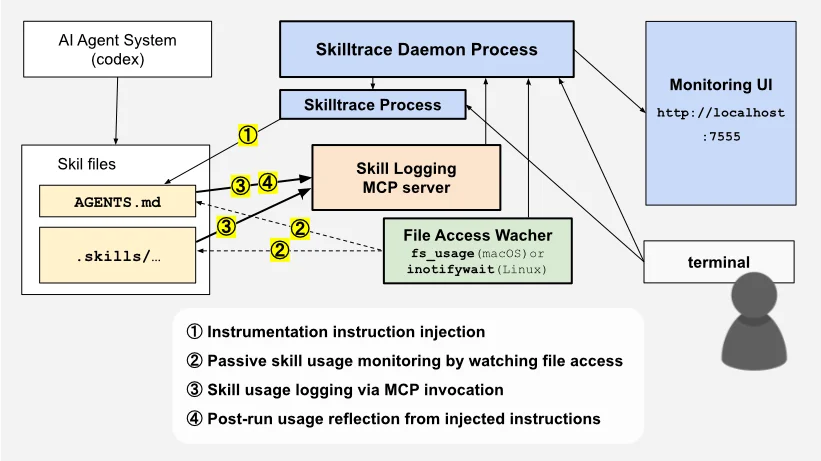
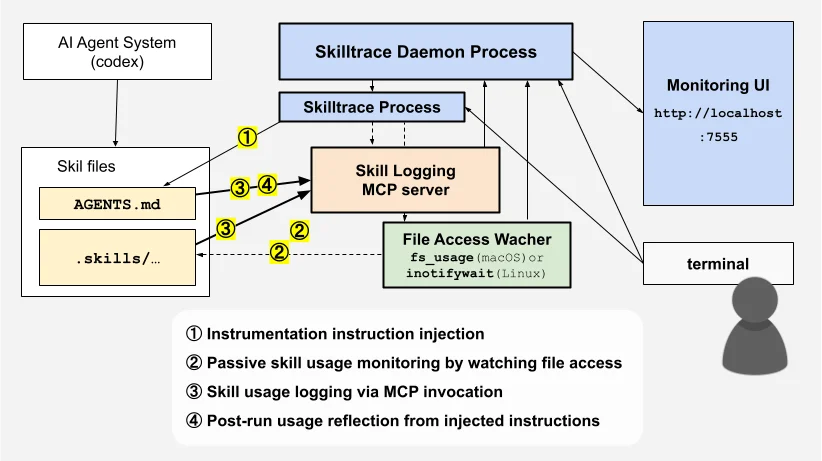
Unify run detail panel headers

diff --git a/app/routes/app/runs.$id.tsx b/app/routes/app/runs.$id.tsx
@@ -145,28 +145,28 @@ function RunReflectionPanel({ reflection }: RunReflectionPanelProps) {
 
   return (
     <section className="flex min-h-0 flex-1 flex-col rounded-box border border-base-300 bg-base-100 p-5 shadow-sm">
-      <div className="mb-4 flex flex-col gap-2 sm:flex-row sm:items-end sm:justify-between">
-        <div>
-          <h2 className="section-title">Run reflection</h2>
-          <p className="text-sm text-base-content/60">
-            Declared post-run diagnostic summary
-          </p>
-        </div>
+      <div className="mb-2 flex flex-col gap-2 sm:flex-col sm:items-start sm:justify-between">
+        <SectionSummaryHeader
+          summary="Post-run self-report"
+          title="Run reflection"
+        />
         {reflection ? (
-          <div className="join gap-2">
-            {reflectionModes.map((option) => (
-              <button
-                aria-pressed={mode === option}
-                className={`btn join-item btn-xs ${
-                  mode === option ? 'btn-primary' : 'btn-outline'
-                }`}
-                key={option}
-                onClick={() => setMode(option)}
-                type="button"
-              >
-                {capitalize(option)}
-              </button>
-            ))}
+          <div className=" flex w-full flex-col items-end">
+            <div className="join gap-2">
+              {reflectionModes.map((option) => (
+                <button
+                  aria-pressed={mode === option}
+                  className={`btn join-item btn-xs ${
+                    mode === option ? 'btn-primary' : 'btn-outline'
+                  }`}
+                  key={option}
+                  onClick={() => setMode(option)}
+                  type="button"
+                >
+                  {capitalize(option)}
+                </button>
+              ))}
+            </div>
           </div>
         ) : null}
       </div>
@@ -175,7 +175,7 @@ function RunReflectionPanel({ reflection }: RunReflectionPanelProps) {
         mode === 'pretty' ? (
           <ReflectionPretty value={reflection} />
         ) : (
-          <div className="min-h-0 flex-1">
+          <div className="min-h-0 w-full flex-1 items-end">
             <JsonBlock className="h-full max-h-none" flush value={reflection} />
           </div>
         )
@@ -301,14 +301,11 @@ function RunContextPanel({ context, environment }: RunContextPanelProps) {
 
   return (
     <section className="rounded-box border border-base-300 bg-base-100 p-5 shadow-sm">
-      <div className="mb-4 flex flex-col gap-2 sm:flex-row sm:items-end sm:justify-between">
-        <div>
-          <h2 className="section-title">Run context</h2>
-          <p className="text-sm text-base-content/60">
-            Agent-declared and SkillTrace-collected metadata
-          </p>
-        </div>
-      </div>
+      <SectionSummaryHeader
+        className="mb-4"
+        summary="Agent-declared and SkillTrace-collected metadata"
+        title="Run context"
+      />
 
       {hasContext || hasEnvironment ? (
         <div className="space-y-4">
@@ -320,12 +317,13 @@ function RunContextPanel({ context, environment }: RunContextPanelProps) {
             <AnimatedDisclosure
               childrenClassName="pt-3"
               className="border-t border-base-300 pt-4"
-              header={(
+              header={
                 <CompactDisclosureHeader
+                  subsection
                   summary={executionEnvironmentSummary(environment)}
                   title="SkillTrace environment"
                 />
-              )}
+              }
               headerClassName="flex w-full cursor-pointer items-center justify-between gap-4 text-left"
             >
               <ContextRows rows={environmentRows} />
@@ -497,14 +495,19 @@ function CompactDetailsPanel({
 }
 
 function CompactDisclosureHeader({
+  subsection = false,
   summary,
   title,
 }: CompactDisclosureHeaderProps) {
+  let titleClassName = subsection
+    ? 'truncate font-semibold text-base-content/70'
+    : 'section-title shrink-0'
+
   return (
     <>
-      <div className="grid min-w-0 flex-1 gap-x-5 gap-y-1 sm:grid-cols-[13rem_minmax(0,1fr)] sm:items-baseline">
-        <h2 className="section-title truncate">{title}</h2>
-        <p className="truncate font-mono text-xs text-base-content/60">
+      <div className="flex min-w-0 flex-1 flex-wrap items-baseline gap-x-5 gap-y-1">
+        <h2 className={titleClassName}>{title}</h2>
+        <p className="min-w-0 flex-1 truncate font-mono text-xs text-base-content/60">
           {summary}
         </p>
       </div>
@@ -827,14 +830,11 @@ function ConsistencyPanel({ rows, traceMode }: ConsistencyPanelProps) {
 
   return (
     <section className="rounded-box border border-base-300 bg-base-100 p-5 shadow-sm">
-      <div className="mb-4 flex flex-col gap-2 sm:flex-row sm:items-end sm:justify-between">
-        <div>
-          <h2 className="section-title">Consistency</h2>
-          <p className="text-sm text-base-content/60">
-            {rows.length} file{rows.length === 1 ? '' : 's'} · {description}
-          </p>
-        </div>
-      </div>
+      <SectionSummaryHeader
+        className="mb-4"
+        summary={`${rows.length} file${rows.length === 1 ? '' : 's'} · ${description}`}
+        title="Consistency"
+      />
 
       {rows.length > 0 ? (
         <div className="overflow-x-auto">
@@ -901,13 +901,17 @@ function ConsistencyPanel({ rows, traceMode }: ConsistencyPanelProps) {
   )
 }
 
-function PanelHeader({ description, title }: PanelHeaderProps) {
+function SectionSummaryHeader({
+  className = '',
+  summary,
+  title,
+}: SectionSummaryHeaderProps) {
   return (
-    <div className="mb-4 flex flex-col gap-2 sm:flex-row sm:items-end sm:justify-between">
-      <div>
-        <h2 className="section-title">{title}</h2>
-        <p className="text-sm text-base-content/60">{description}</p>
-      </div>
+    <div
+      className={`flex min-w-0 flex-wrap items-baseline gap-x-5 gap-y-1 ${className}`}
+    >
+      <h2 className="section-title shrink-0">{title}</h2>
+      <p className="min-w-0 text-sm text-base-content/60">{summary}</p>
     </div>
   )
 }
@@ -1041,7 +1045,9 @@ function Metric({ label, value }: MetricProps) {
       <p className="text-left text-xs tracking-[0.2em] text-base-content/50 uppercase">
         {label}
       </p>
-      <p className="mt-2 truncate text-right text-1.5xl font-bold">{value}</p>
+      <p className="mt-2 truncate text-right text-1.5xl font-semibold">
+        {value}
+      </p>
     </div>
   )
 }
@@ -1049,15 +1055,11 @@ function Metric({ label, value }: MetricProps) {
 function Timeline({ events }: TimelineProps) {
   return (
     <section className="rounded-box border border-base-300 bg-base-100 p-5 shadow-sm">
-      <div className="mb-5">
-        <div>
-          <h2 className="section-title">Timeline</h2>
-          <p className="text-sm text-base-content/60">
-            {events.length} event
-            {events.length === 1 ? '' : 's'}
-          </p>
-        </div>
-      </div>
+      <SectionSummaryHeader
+        className="mb-5"
+        summary={`${events.length} event${events.length === 1 ? '' : 's'}`}
+        title="Timeline"
+      />
 
       {events.length > 0 ? (
         <ol className="relative space-y-4 before:absolute before:top-2 before:bottom-0 before:left-3 before:w-px before:bg-base-300">
@@ -1115,7 +1117,10 @@ function TimelineItem({ event }: TimelineItemProps) {
                   </div>
                 ) : null}
                 {warning ? (
-                  <span className="badge badge-sm badge-warning" title={warning}>
+                  <span
+                    className="badge badge-sm badge-warning"
+                    title={warning}
+                  >
                     warning
                   </span>
                 ) : null}
@@ -1314,9 +1319,7 @@ function executionEnvironmentRows(
   ].filter((row): row is ContextRow => !!row[1])
 }
 
-function executionEnvironmentSummary(
-  environment?: Record<string, any> | null,
-) {
+function executionEnvironmentSummary(environment?: Record<string, any> | null) {
   if (!environment) return 'not recorded'
 
   let version = environment.skilltrace_version || 'unknown'
@@ -1449,6 +1452,7 @@ type CompactDetailsPanelProps = {
 }
 
 type CompactDisclosureHeaderProps = {
+  subsection?: boolean
   summary: string
   title: string
 }
@@ -1532,9 +1536,10 @@ type InstructionFileDialogProps = {
   onClose: () => void
 }
 
-type PanelHeaderProps = {
+type SectionSummaryHeaderProps = {
+  className?: string
+  summary: string
   title: string
-  description: string
 }
 
 type EmptyPanelProps = {

diff --git a/README.md b/README.md
@@ -278,7 +278,7 @@ codex "Fix the TypeScript error using the available skill"
 skilltrace stop
 ```
 
-Open `http://localhost:7555` in your browser.
+Open `http://localhost:7555` in your browser after `skilltrace daemon start`.
 
 To retry the toy demo from a clean copy:
 
